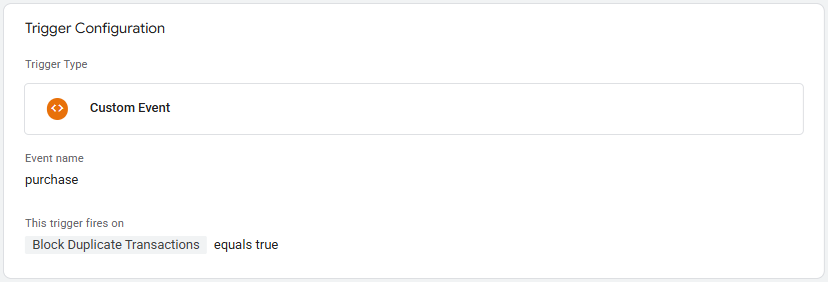
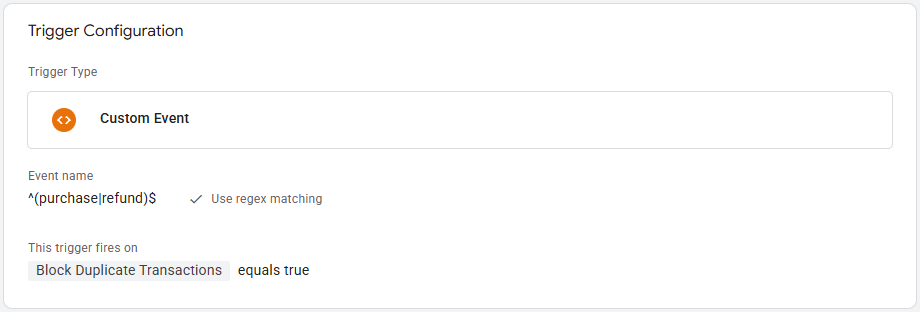
README update

diff --git a/README.md b/README.md
@@ -119,12 +119,12 @@ Stape Store is a built-in database solution exclusively for sGTM containers host
 3. **Time-to-live** settings for Stape Store are managed directly inside your **Stape Store collection settings** in the Stape Dashboard.
 
 ## Trigger Settings for Blocking Duplicate Transactions
-You can either include the rule into your existing (purchase) trigger or create a dedicated blocking trigger.
+You can either include the rule into your existing trigger or create a dedicated blocking trigger.
 
 ### Blocking Trigger (Exception)
 I recommend using a blocking trigger.
 
-- Add the condition as shown in the image below:
+- Add the events you want to deduplicate. In the example below, both `purchas`e and `refund` are protected.
   * TheNameYouHaveGivenThisVariable *equals* **true**
 
 ![Trigger Settings for Blocking Duplicate Transactions](images/sgtm-block-duplicate-transactions-blocking-trigger.png)
